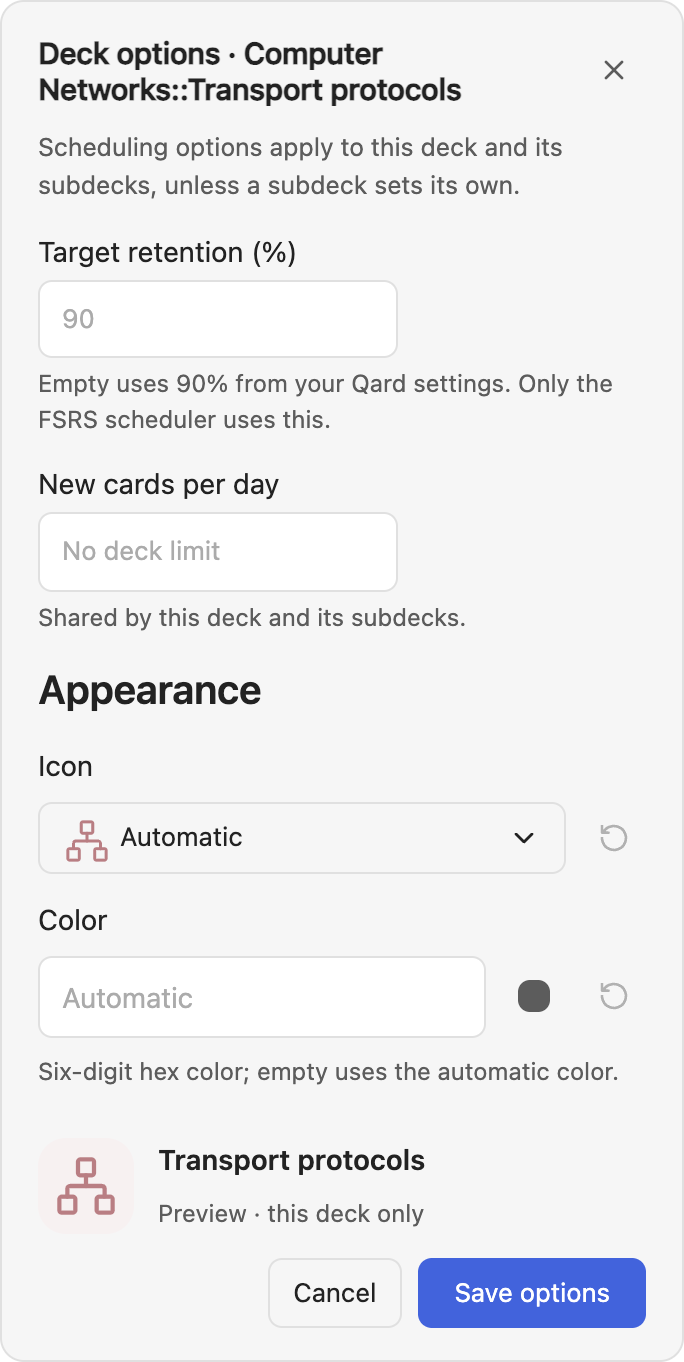
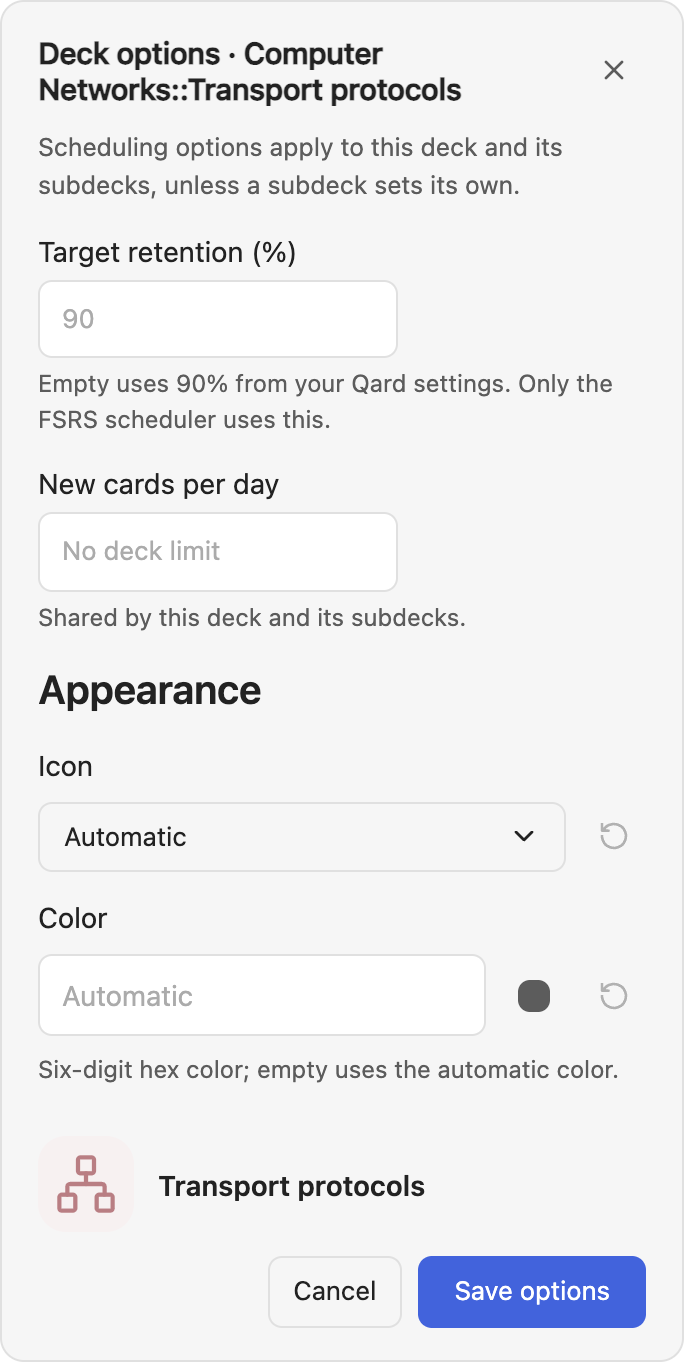
Refresh simplified appearance screenshots

diff --git a/docs/images/ui-main-latest/audit-report.md b/docs/images/ui-main-latest/audit-report.md
@@ -1,3 +1,12 @@
+# Remove duplicate appearance decoration
+
+#10 `f5b656a1f38f5e75a2b988ae08981264d29281bb` → #17 `a16bf0d828524a00c75185d26907e767a0472040`.
+
+- Removed Preview · this deck only from the shared preview and removed the badge from the icon selector. The actual preview badge/name and selector value/chevron remain.
+- Removed caption styles, obsolete small control-badge styles and the mobile two-row span so the remaining preview name centers against its badge in a single row. #17 preserves preview-first order and title hierarchy.
+-57existing deck cases pass(28base,29UI). Typecheck, scoped ESLint, Stylelint, formatting, build and release checks pass on both branches.14responsive/theme cases pass, including absence of caption/duplicate badge and working search/select/reset. No tests added. Previous full suites passed811/822tests.
+- Refreshed2settings after images in each PR plus their in-branch guide image. Main baselines unchanged; counts remain52pairs in#17 and2in#10. Isolated Obsidian build refreshed; protected files unchanged.
+
 # Pop-out picker dismissal follow-up
 
 #10 `260168d37931247d3975980ad952201fa07368b5` → #17 `8f246a67defb1e1341afbd8fae65819f6fc01f3f`. The title/section/label hierarchy and preview-first order are preserved.
